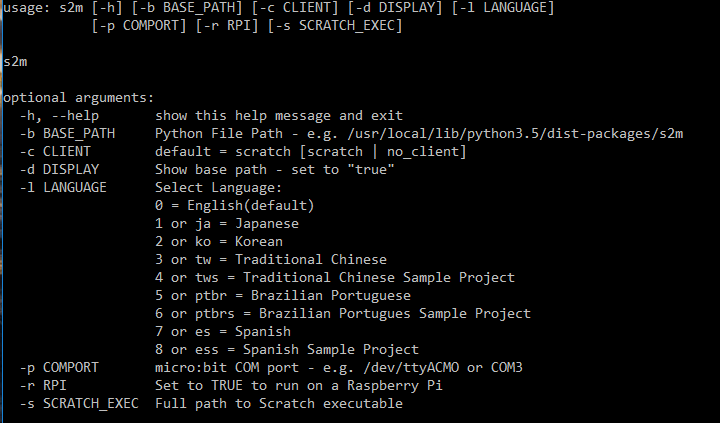
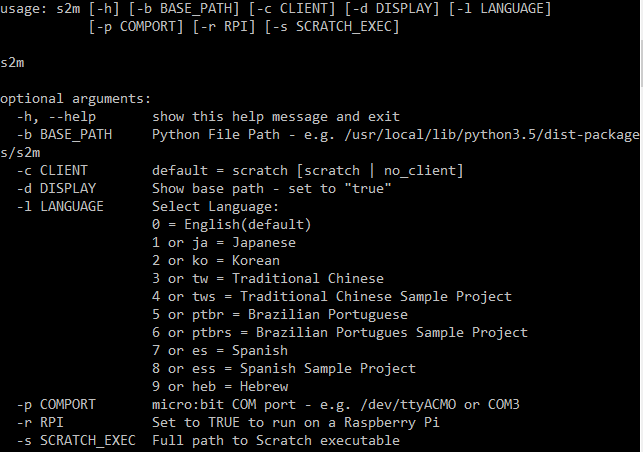
Deployed aaa6eba with MkDocs version: 0.17.1

Changed region(s): [[0.0, 0.0, 1.0, 1.0], [0.0, 0.0, 0.8709, 0.8298]]

diff --git a/blocks/index.html b/blocks/index.html
@@ -107,6 +107,15 @@
         </ul>
     
 
+    <li class="toctree-l2"><a href="#the-hebrew-blocks">The Hebrew Blocks</a></li>
+    
+        <ul>
+        
+            <li><a class="toctree-l3" href="#the-hebrew-translation-was-provided-by-rami-shaked">The Hebrew translation was provided by Rami Shaked</a></li>
+        
+        </ul>
+    
+
     <li class="toctree-l2"><a href="#the-japanese-blocks">The Japanese Blocks</a></li>
     
         <ul>
@@ -273,6 +282,9 @@ the micro:bit is reset. Once reset, the pin may then be used as input pin.</p>
 <h3 id="the-brazilian-portuguese-demo-was-provided-by-edson-sidnei-sobreira">The Brazilian-Portuguese demo was provided by Edson Sidnei Sobreira</h3>
 <p><img align="center" src="../images/brazilian_portuguese_blocks.png">
 <img align="center" src="../images/br_pt_demo.png"></p>
+<h1 id="the-hebrew-blocks">The Hebrew Blocks</h1>
+<h3 id="the-hebrew-translation-was-provided-by-rami-shaked">The Hebrew translation was provided by Rami Shaked</h3>
+<p><img align="center" src="../images/hebrew_blocks.png"></p>
 <h1 id="the-japanese-blocks">The Japanese Blocks</h1>
 <h3 id="the-japanese-translation-was-provided-by-junya-ishihara">The Japanese translation was provided by Junya Ishihara.</h3>
 <p><img align="center" src="../images/japanese_blocks.png"></p>

diff --git a/index.html b/index.html
@@ -233,5 +233,5 @@ that Raspberry Pi users can also enjoy programming with s2m.</p>
 
 <!--
 MkDocs version : 0.17.1
-Build Date UTC : 2018-04-25 16:19:48
+Build Date UTC : 2018-05-19 11:49:52
 -->
